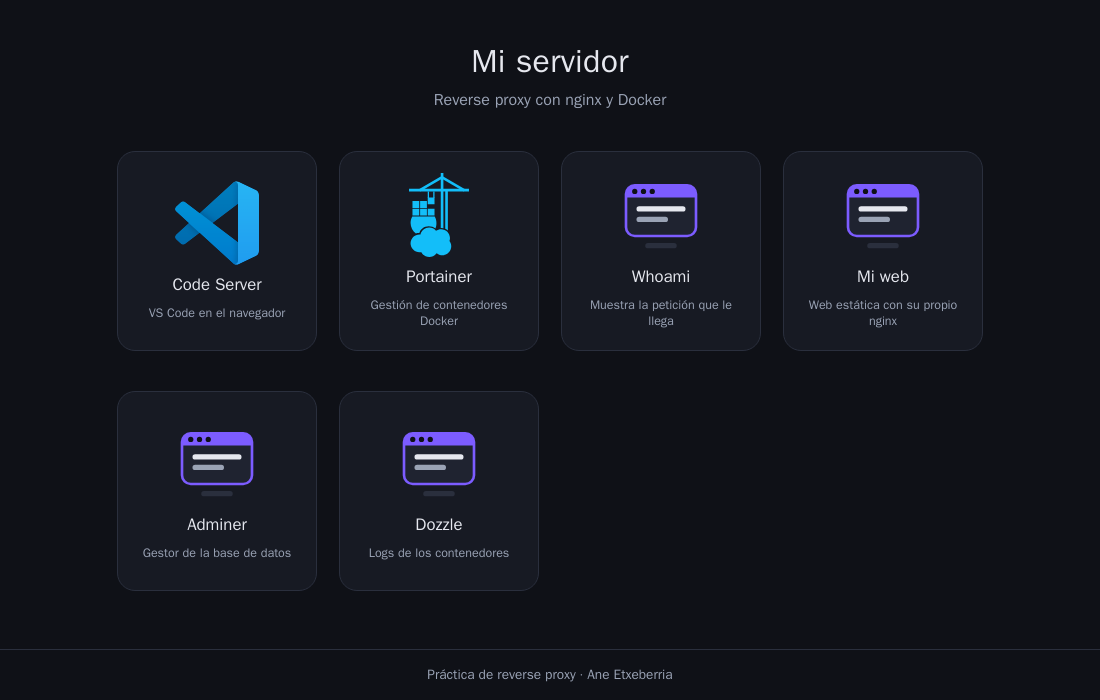
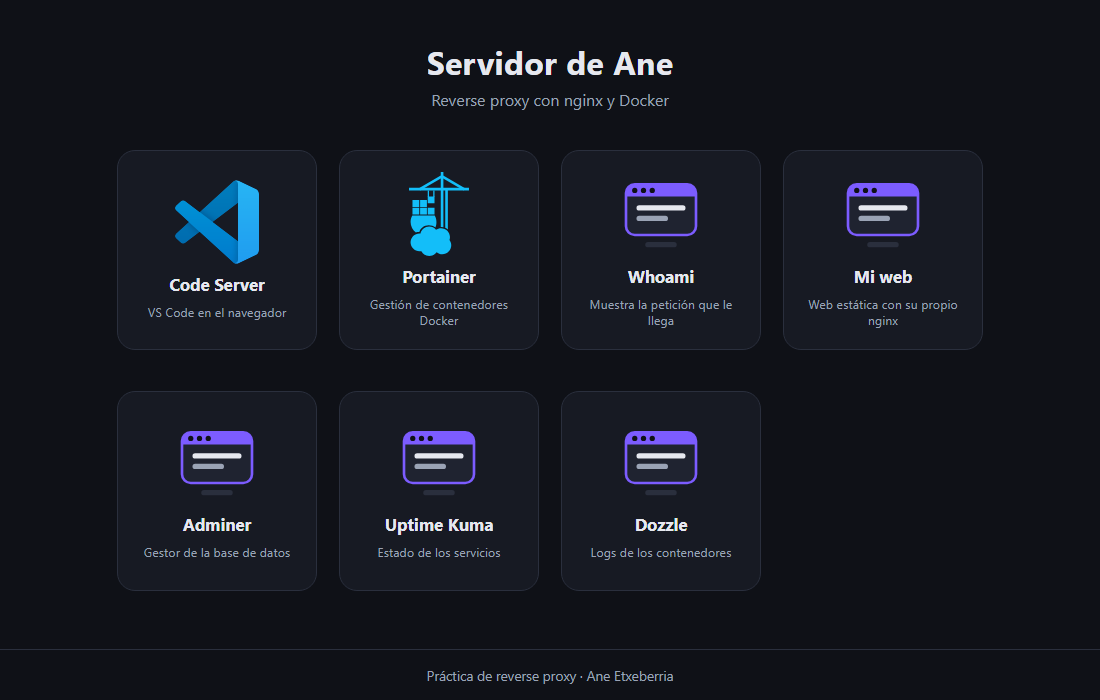
mejorar explicaciones

diff --git a/proxy/web/apps.js b/proxy/web/apps.js
@@ -22,4 +22,5 @@ const APPS = [
     imagen: 'img/portainer.svg',
     descripcion: 'Gestión de contenedores Docker',
   },
+  // ↓ Añade aquí las cajas nuevas, antes del ]; que cierra la lista
 ];

diff --git a/readme.md b/readme.md
@@ -39,6 +39,8 @@ Partes de un entorno que ya funciona (el proxy, un portal de inicio, code-server
 
 Necesitas **Docker Desktop** (o Docker Engine con `docker compose`) y **Git**.
 
+Todos los comandos de esta práctica se ejecutan en una **terminal abierta en la carpeta del proyecto** (la que contiene `docker-compose.yml`). En Windows usa PowerShell o Git Bash, no CMD.
+
 ---
 
 ## 🧠 Conceptos
@@ -58,6 +60,8 @@ Ventajas:
 ### Arquitectura de la práctica
 
 ![Arquitectura: el proxy reparte /, /code/ y /portainer/; tú añades whoami, mi-web y adminer](docs/img/arquitectura.svg)
+
+En la Tarea 5 añadirás además dos **nombres** (`whoami.localhost` y `kuma.localhost`) que entran por el mismo puerto 80 y el mismo proxy; el diagrama muestra solo la parte por ruta.
 
 ```text
 nginx-reverse-proxy/
@@ -127,6 +131,17 @@ location /portainer/ {
 | `rewrite ^/portainer(/.*)$ $1 break;` | **Quita el prefijo:** `/portainer/api/status` pasa a ser `/api/status` |
 | `proxy_pass http://$destino;` | Reenvía la petición al servicio y devuelve su respuesta al navegador |
 
+La línea del `rewrite` es la más rara. Pieza a pieza:
+
+| Trozo | Significa |
+|---|---|
+| `^/portainer` | la ruta **empieza por** `/portainer` |
+| `(/.*)` | y después viene cualquier cosa (la barra y lo que siga): **guárdalo** |
+| `$1` | la ruta nueva es **lo guardado**, sin el prefijo |
+| `break` | ya está: no mires más reglas y sigue con el `proxy_pass` |
+
+Cuando copies este bloque para otro servicio, el prefijo aparece **cinco veces** y el nombre del servicio una (en `$destino`): cámbialos todos.
+
 Así viaja una petición:
 
 ![Recorrido de una petición: location, rewrite y proxy_pass](docs/img/recorrido-peticion.svg)
@@ -143,11 +158,13 @@ Pruébalo tú mismo: abre <http://localhost/portainer/api/status> y verás la re
 
 Al principio del fichero hay tres cosas que no hace falta tocar, pero conviene entender:
 
-- **Las cabeceras `proxy_set_header`** (`Host`, `X-Real-IP`, `X-Forwarded-For`…) le cuentan al servicio quién hizo la petición original. Sin ellas, el servicio solo vería que le llama el proxy. Las verás en directo en la Tarea 2. Están **fuera** de los bloques `server` para que las hereden todos, también los de subdominio de la Tarea 5.
+- **Las cabeceras `proxy_set_header`.** Una *cabecera* es un dato extra que viaja con cada petición HTTP, además de la URL: para qué nombre va (`Host`), desde qué navegador, desde qué IP… Las que añade el proxy (`X-Real-IP`, `X-Forwarded-For`…) le cuentan al servicio quién hizo la petición original. Sin ellas, el servicio solo vería que le llama el proxy. Las verás en directo en la Tarea 2. Están **fuera** de los bloques `server` para que las hereden todos, también los de subdominio de la Tarea 5.
 - **El bloque `map … $connection_upgrade`** deja pasar los **WebSockets**, conexiones que se quedan abiertas. code-server no funciona sin ellos.
 - **`resolver 127.0.0.11`** junto con `set $destino` hacen que nginx busque cada servicio **en cada petición**, en vez de una sola vez al arrancar. Por eso el proxy arranca aunque un servicio esté parado o mal escrito: solo falla esa ruta, con un `502`.
 
 ### Rutas o subdominios: dos formas de repartir
+
+> 📌 Esta sección la necesitas en la **Tarea 5**. Si es tu primera lectura, puedes saltar a las [Tareas](#-tareas) y volver aquí cuando llegues.
 
 Hasta ahora el proxy decide **mirando la ruta** (lo que va después del nombre). Pero también puede decidir **mirando el nombre** que has escrito en el navegador. Piensa en un edificio de oficinas con un solo portal (el puerto 80) y un recepcionista (nginx):
 
@@ -181,13 +198,13 @@ http://localhost/kuma/            → server principal       → ningún locatio
 - **Por ruta:** el portal y los servicios que funcionan bien detrás de un prefijo (code-server, Portainer, Adminer…).
 - **Por subdominio:** los que no admiten subruta o tienen rutas absolutas (Uptime Kuma, muchas webs), y los que queremos que tengan una dirección «limpia» (`www`, `intranet`…).
 
-**¿Cómo llega el nombre al proxy?** Para que `code.localhost` o `intranet.innovatechsolutions.com` lleguen a tu nginx, el nombre tiene que **resolver a la IP del proxy**:
+**¿Cómo llega el nombre al proxy?** Para que `code.localhost` o `intranet.miempresa.com` lleguen a tu nginx, el nombre tiene que **resolver a la IP del proxy**:
 
 | Dónde estás | Qué haces |
 |---|---|
 | En tu PC, con `*.localhost` | Nada: Chrome, Edge y Firefox resuelven cualquier `algo.localhost` a `127.0.0.1` solos |
-| Otro nombre en tu PC (o un navegador que no lo resuelva) | Una línea en el fichero `hosts` por nombre: `127.0.0.1 kuma.localhost` (Linux/macOS: `/etc/hosts`; Windows: `C:\Windows\System32\drivers\etc\hosts`) |
-| En una red con DNS (como el reto de la PYME) | Un registro `A` por subdominio en el DNS, apuntando a la IP del servidor del proxy |
+| Otro nombre en tu PC (o un navegador que no lo resuelva) | Una línea en el fichero `hosts` por nombre: `127.0.0.1 kuma.localhost` (Linux/macOS: `/etc/hosts`; Windows: `C:\Windows\System32\drivers\etc\hosts`). Editarlo requiere permisos de administrador |
+| En una red con DNS (un servidor real con dominio propio) | Un registro `A` por subdominio en el DNS, apuntando a la IP del servidor del proxy |
 
 > Si publicas el proxy en otro puerto (`"8080:80"`), el puerto va detrás del nombre: `http://kuma.localhost:8080/`. nginx compara el nombre sin el puerto, así que el `server_name` no cambia.
 
@@ -197,20 +214,24 @@ http://localhost/kuma/            → server principal       → ningún locatio
 
 ### Tarea 1 · Arranca el entorno y explóralo
 
-**1. Clona tu repositorio y crea el `.env`** con la contraseña de code-server:
+**1. Clona tu repositorio y crea el `.env`:**
 
 ```bash
-git clone <url-de-tu-repositorio>
-cd nginx-reverse-proxy
-cp .env.template .env        # después edita .env y cambia la contraseña
+git clone <url-de-tu-repositorio>   # la URL del botón "Code" de tu repositorio en GitHub
+cd nginx-reverse-proxy              # o el nombre que tenga la carpeta que se ha creado
+cp .env.template .env
 ```
 
-**2. Arranca todo** y comprueba el estado:
+Abre `.env` y cambia `cambiame` por una contraseña tuya: es la de code-server. Docker Compose lee este fichero solo, y `docker-compose.yml` usa el valor con `${CODE_PASSWORD:?mensaje}`: coge la variable del `.env` y, si no existe, se para y muestra el mensaje. El `.env` está en `.gitignore`, así que nunca se sube a GitHub.
+
+**2. Arranca todo** y comprueba el estado. La primera vez descarga las imágenes y tarda unos minutos:
 
 ```bash
 docker compose up -d
 docker compose ps
 ```
+
+Salida resumida (la tuya tendrá más columnas):
 
 ```text
 SERVICE     STATUS         PORTS
@@ -225,11 +246,11 @@ Solo `proxy` tiene un puerto publicado (`0.0.0.0:80->80`). Los demás muestran s
 
 ![Portal de inicio con Code Server y Portainer](docs/img/portal-inicial.png)
 
-**4. Entra en Code Server** (`/code/`) con la contraseña del `.env`. Es VS Code en el navegador, abierto sobre la carpeta del proyecto: puedes editar los ficheros de la práctica desde aquí. Si te pregunta si confías en la carpeta, pulsa **Trust**.
+**4. Entra en Code Server** (`/code/`) con la contraseña del `.env`. Es VS Code en el navegador, abierto sobre la carpeta del proyecto. Puedes editar los ficheros de la práctica desde aquí o desde el VS Code de tu PC: es la misma carpeta, elige lo que prefieras. Si te pregunta si confías en la carpeta, pulsa **Trust**.
 
 ![code-server con nginx.conf abierto, a través de /code/](docs/img/code-server.png)
 
-**5. Entra en Portainer** (`/portainer/`) y crea el usuario administrador:
+**5. Entra en Portainer** (`/portainer/`) y crea el usuario administrador. ⏱ **Hazlo nada más arrancar:** Portainer solo da **5 minutos** para crear el usuario. Si se pasan, al entrar en `/portainer/` verás un `404` en `/timeout.html`; ejecuta `docker compose restart portainer` y vuelve a intentarlo (el token cambia en cada arranque).
 
 - La contraseña debe tener **al menos 12 caracteres**.
 - Te pide un **setup token**, que Portainer escribe en sus logs al arrancar:
@@ -244,8 +265,6 @@ Solo `proxy` tiene un puerto publicado (`0.0.0.0:80->80`). Los demás muestran s
   ```
 
 ![Pantalla de alta de Portainer con el campo Setup token](docs/img/portainer-setup.png)
-
-> ⏱ Tienes **5 minutos** desde que arranca Portainer para crear el usuario. Si se pasa el tiempo, al entrar en `/portainer/` acabarás en un `404` en `/timeout.html`. Ejecuta `docker compose restart portainer` y vuelve a intentarlo (el token cambia en cada arranque).
 
 **6. Personaliza el portal.** Edita `proxy/web/apps.js` y cambia el título y el pie (pon tu nombre):
 
@@ -267,7 +286,7 @@ Guarda y recarga el navegador (F5). No hace falta reiniciar nada: `proxy/web/` e
 
 [whoami](https://github.com/traefik/whoami) es un servidor web diminuto que responde con **la petición que le ha llegado**. Es perfecto para ver qué hace el proxy con cada petición.
 
-**1. Añade el servicio** al final de `services:` en `docker-compose.yml`, sin `ports`:
+**1. Añade el servicio** en `docker-compose.yml`, sin `ports`. Va al final de la sección `services:`, es decir, **después de `portainer:` y antes de la línea `volumes:`** (hay un comentario que marca el sitio), con la misma sangría de dos espacios que los demás:
 
 ```yaml
   whoami:                       # → /whoami/
@@ -275,11 +294,24 @@ Guarda y recarga el navegador (F5). No hace falta reiniciar nada: `proxy/web/` e
     restart: unless-stopped
 ```
 
+El fichero tiene que quedar así por dentro:
+
+```yaml
+services:
+  proxy: …
+  code: …
+  portainer: …
+  whoami: …          # ← el nuevo, dentro de services
+
+volumes:
+  …
+```
+
 ```bash
 docker compose up -d
 ```
 
-**2. Añade su bloque** en `proxy/nginx.conf`, dentro de `server { … }`, después del de Portainer. whoami escucha en el puerto **80**:
+**2. Añade su bloque** en `proxy/nginx.conf`, dentro del `server` principal: después del bloque de Portainer y **antes de la `}` que cierra el `server`** (también hay un comentario que marca el sitio). whoami escucha en el puerto **80**:
 
 ```nginx
     # --- WHOAMI: /whoami/ → servicio "whoami", puerto 80 ---
@@ -299,7 +331,9 @@ docker compose restart proxy
 docker compose logs proxy
 ```
 
-**4. Prueba** <http://localhost/whoami/hola>:
+Verás varias líneas de arranque (`docker-entrypoint.sh`, `Configuration complete`…): son normales. Si no aparece ninguna con `[emerg]`, está bien.
+
+**4. Prueba** <http://localhost/whoami/hola>. Verás algo así (tus IPs serán otras):
 
 ```text
 Hostname: 5d30021cbe95
@@ -309,13 +343,13 @@ RemoteAddr: 172.22.0.4:49914          ← quién le habla: el PROXY
 GET /hola HTTP/1.1                    ← la ruta que le llega: SIN /whoami
 Host: localhost
 User-Agent: Mozilla/5.0 (...)
-X-Forwarded-For: 172.22.0.1           ← quién hizo la petición original: TU navegador
+X-Forwarded-For: 172.22.0.1           ← quién hizo la petición original: tu PC (la IP con la que Docker lo ve)
 X-Forwarded-Prefix: /whoami           ← bajo qué ruta está publicado
 X-Forwarded-Proto: http
 X-Real-Ip: 172.22.0.1
 ```
 
-**5. Añádelo al portal** en `proxy/web/apps.js`, dentro de `APPS`:
+**5. Añádelo al portal** en `proxy/web/apps.js`, dentro de la lista `APPS`: después de la caja de Portainer y **antes del `];` que cierra la lista** (hay un comentario que marca el sitio):
 
 ```js
   {
@@ -337,6 +371,8 @@ docker compose logs proxy --tail 3
 
 Verás `502 Bad Gateway` en el navegador y `whoami could not be resolved` en el log. El portal y el resto de rutas siguen funcionando. Arráncalo de nuevo con `docker compose start whoami`.
 
+✅ **Comprueba:** <http://localhost/whoami/hola> muestra `GET /hola`, la caja de Whoami está en el portal y, con whoami parado, `/whoami/` da `502` mientras el portal sigue funcionando.
+
 ---
 
 ### Tarea 3 · Publica una web estática
@@ -353,7 +389,7 @@ En `servicios/mi-web/` tienes una web sencilla. La va a servir **su propio conte
       - ./servicios/mi-web:/usr/share/nginx/html:ro
 ```
 
-**2. Escribe tú el bloque** en `nginx.conf`, siguiendo el de whoami. Datos: ruta `/mi-web/`, servicio `mi-web`, puerto `80`. Reinicia el proxy.
+**2. Escribe tú el bloque** en `nginx.conf`, en el mismo sitio que el de whoami. Datos: ruta `/mi-web/`, servicio `mi-web`, puerto `80`. Copia el bloque de whoami y cambia `whoami` por `mi-web` en **las seis veces** que aparece (sin contar el comentario); el guion no da problemas en nginx. Reinicia el proxy.
 
 **3. Abre <http://localhost/mi-web/>.** Algo falla: la página sale **sin estilos**.
 
@@ -378,18 +414,22 @@ La ruta empieza por `/`, así que es **absoluta**: el navegador la busca en la r
 
 **6. Añádela al portal** en `apps.js`.
 
+✅ **Comprueba:** <http://localhost/mi-web/> se ve con estilos y con tu nombre, en **F12 → Red** `web.css` da `200`, y la caja está en el portal.
+
 ---
 
 ### Tarea 4 · Adminer y una base de datos
 
 [Adminer](https://www.adminer.org/) es un gestor de bases de datos web. Vas a publicarlo en `/adminer/` con una base de datos MariaDB detrás. **La base de datos no se publica:** solo Adminer habla con ella, dentro de la red de Docker.
 
-**1. Añade la contraseña de la base de datos** al `.env` (y también a `.env.template`, para que quien clone tu repositorio sepa que hace falta):
+**1. Añade la contraseña de la base de datos** al `.env` y también a `.env.template`, para que quien clone tu repositorio sepa que hace falta. En `.env` pon una contraseña tuya; en `.env.template` deja `cambiame`:
 
 ```bash
 # Contraseña del usuario root de MariaDB
 DB_PASSWORD=cambiame
 ```
+
+> MariaDB fija la contraseña **la primera vez que arranca**. Si la cambias en `.env` después, la base de datos sigue con la antigua (ver [Problemas frecuentes](#-problemas-frecuentes)).
 
 **2. Añade los dos servicios:**
 
@@ -410,6 +450,8 @@ DB_PASSWORD=cambiame
       ADMINER_DEFAULT_SERVER: db
 ```
 
+La línea `${DB_PASSWORD:?Falta DB_PASSWORD en .env}` es la misma sintaxis que ya usa `CODE_PASSWORD`: lee la variable del `.env` y, si no existe, `docker compose` se para con ese mensaje. Cópiala tal cual.
+
 Y declara el volumen al final del fichero, en la sección `volumes:`:
 
 ```yaml
@@ -423,9 +465,13 @@ volumes:
 
 **4. Entra en <http://localhost/adminer/>** con servidor `db`, usuario `root`, la contraseña del `.env` y base de datos `clase`. Fíjate en que el servidor es `db`: otra vez, el nombre del servicio.
 
+> MariaDB tarda unos 10-20 segundos en prepararse la primera vez. Si Adminer dice que no puede conectar, no toques nada: espera y vuelve a intentarlo. `docker compose logs db` termina en `ready for connections` cuando está lista.
+
 ![Login de Adminer con el servidor db](docs/img/adminer-login.png)
 
 **5. Añádelo al portal.**
+
+✅ **Comprueba:** entras en Adminer y ves la base de datos `clase` (vacía), la caja está en el portal, y <http://localhost:8080> **no** responde: Adminer, como la base de datos, solo se alcanza desde dentro de la red de Docker.
 
 ---
 
@@ -449,7 +495,7 @@ server {
 }
 ```
 
-Fíjate en lo que **no** está: ni `rewrite`, ni redirección de la barra final. No hay prefijo que quitar.
+Fíjate en lo que **no** está: ni `rewrite`, ni redirección de la barra final. No hay prefijo que quitar. La línea `set $prefijo "";` hace falta porque la cabecera común `X-Forwarded-Prefix` usa esa variable y nginx se queja si no está definida; al estar vacía, la cabecera no se envía.
 
 Reinicia el proxy y abre <http://whoami.localhost/hola>. Compáralo con <http://localhost/whoami/hola>, que sigue funcionando:
 
@@ -457,11 +503,11 @@ Reinicia el proxy y abre <http://whoami.localhost/hola>. Compáralo con <http://
 |---|---|---|
 | `Host:` | `localhost` | `whoami.localhost` |
 | Ruta que recibe | `GET /hola` (gracias al `rewrite`) | `GET /hola` (sin hacer nada) |
-| `X-Forwarded-Prefix:` | `/whoami` | vacío |
+| `X-Forwarded-Prefix:` | `/whoami` | no aparece (está vacía y nginx no la envía) |
 
 El mismo contenedor, publicado de **las dos formas a la vez**.
 
-> ¿No abre `whoami.localhost`? Tu navegador no resuelve `*.localhost`: añade `127.0.0.1 whoami.localhost` a tu fichero `hosts` (ver [cómo llega el nombre al proxy](#rutas-o-subdominios-dos-formas-de-repartir)).
+> ¿No abre `whoami.localhost`? Tu navegador no resuelve `*.localhost`. Prueba primero con Chrome, Edge o Firefox, que lo resuelven solos. Si no, añade `127.0.0.1 whoami.localhost` a tu fichero `hosts` (hace falta permiso de administrador; ver [cómo llega el nombre al proxy](#rutas-o-subdominios-dos-formas-de-repartir)).
 
 **2. Uptime Kuma: un servicio que necesita subdominio.** [Uptime Kuma](https://github.com/louislam/uptime-kuma) vigila si tus servicios están en marcha. No funciona en una subruta, así que es el candidato perfecto para un subdominio.
 
@@ -477,7 +523,7 @@ Declara `kuma_datos:` en la sección `volumes:` y escribe **tú** su bloque `ser
 
 Abre <http://kuma.localhost/>, crea el usuario y añade un monitor HTTP para cada servicio. Usa sus nombres internos: `http://whoami`, `http://mi-web`, `http://portainer:9000`… Kuma está dentro de la red de Docker y los encuentra igual que el proxy.
 
-**3. Añade las cajas al portal.** Para un subdominio, `ruta` es la URL completa:
+**3. Añade la caja de Uptime Kuma al portal.** Para un subdominio, `ruta` es la URL completa (si publicaste el proxy en otro puerto, inclúyelo: `http://kuma.localhost:8080/`). whoami ya tiene su caja; si quieres, añade otra que apunte a `http://whoami.localhost/`:
 
 ```js
   {
@@ -488,11 +534,15 @@ Abre <http://kuma.localhost/>, crea el usuario y añade un monitor HTTP para cad
   },
 ```
 
-🧪 **Experimento 1: un nombre que no existe.** Abre <http://loquesea.localhost/>. Aparece **el portal**. Ningún `server_name` encaja, así que la petición la atiende el `default_server`, que es el servidor principal. Ahora prueba <http://kuma.localhost/code/>. **No** abre code-server: el filtro del `server` va primero, y en el de Kuma no hay ningún `location /code/`.
+🧪 **Experimento 1: un nombre que no existe.** Abre <http://loquesea.localhost/>. Aparece **el portal**. Ningún `server_name` encaja, así que la petición la atiende el `default_server`, que es el servidor principal. Ahora prueba <http://kuma.localhost/code/>. **No** abre code-server, verás la propia página de Kuma (o un «not found» suyo): el filtro del `server` va primero, y en el de Kuma no hay ningún `location /code/`.
 
-🧪 **Experimento 2: rutas absolutas sin miedo.** Publica también `mi-web` por subdominio en `web.localhost`. Después vuelve a poner en su `index.html` la ruta absoluta que rompía la Tarea 3 (`href="/css/web.css"`). En <http://web.localhost/> se ve **con estilos**; en <http://localhost/mi-web/> vuelve a romperse. Deja la versión relativa, que funciona en los dos sitios. Fíjate también en **Volver al portal** (`href="/"`): en `web.localhost`, `/` es la raíz de la propia web, no el portal. Por eso, desde un subdominio, los enlaces a otro servicio llevan la URL completa (`http://localhost/`).
+🧪 **Experimento 2: rutas absolutas sin miedo.** Publica también `mi-web` por subdominio en `web.localhost`. Después vuelve a poner en su `index.html` la ruta absoluta que rompía la Tarea 3 (`href="/css/web.css"`). En <http://web.localhost/> se ve **con estilos**; en <http://localhost/mi-web/> vuelve a romperse. Deja la versión relativa, que funciona en los dos sitios. Fíjate también en **Volver al portal** (`href="/"`): en `web.localhost`, `/` es la raíz de la propia web, no el portal. Por eso, desde un subdominio, los enlaces a otro servicio llevan la URL completa (`http://localhost/`). El bloque `server` de `web.localhost` puedes dejarlo o quitarlo: para la entrega no hace falta.
 
-> **Cuando no estás en tu PC.** En un servidor real (por ejemplo, el del reto de la PYME), cambia `.localhost` por tu dominio: `server_name intranet.innovatechsolutions.com;`. Después crea en el DNS un registro `A` por subdominio que apunte a la IP del servidor donde corre el proxy. nginx no cambia nada más.
+🧪 **Experimento 3 (opcional): Kuma en una subruta.** ¿Por qué decimos que Kuma no funciona detrás de un prefijo? Compruébalo: añade en el `server` principal un bloque `location /kuma/` igual que el de whoami (con su `rewrite`), apuntando a `kuma:3001`, y reinicia el proxy. Abre <http://localhost/kuma/>: la página sale en blanco o acabas en un `404` del portal. En **F12 → Red** verás que pide sus archivos en la raíz (`/assets/…`) y dan `404`: es el mismo problema de rutas absolutas de la Tarea 3, pero esta vez no puedes arreglar el HTML porque no es tuyo. Quita el bloque y reinicia el proxy.
+
+✅ **Comprueba:** <http://whoami.localhost/hola> responde y <http://localhost/whoami/hola> sigue funcionando, <http://kuma.localhost/> abre Uptime Kuma con tus monitores en verde y su caja está en el portal, y <http://loquesea.localhost/> muestra el portal.
+
+> **Cuando no estás en tu PC.** En un servidor real con dominio propio, cambia `.localhost` por tu dominio: `server_name intranet.miempresa.com;`. Después crea en el DNS un registro `A` por subdominio que apunte a la IP del servidor donde corre el proxy. nginx no cambia nada más.
 
 ---
 
@@ -505,12 +555,14 @@ Hasta ahora el proxy **quitaba el prefijo** con `rewrite` y el servicio creía e
 Publica [Dozzle](https://dozzle.dev/), un visor de logs de contenedores, en `/dozzle/`. Pistas:
 
 - Imagen `amir20/dozzle:latest`, puerto **8080**.
-- Necesita leer el socket de Docker: `/var/run/docker.sock:/var/run/docker.sock:ro`.
+- Necesita leer el **socket de Docker**, la «puerta» por la que un contenedor habla con Docker (Portainer ya la usa en el `docker-compose.yml`): `/var/run/docker.sock:/var/run/docker.sock:ro`.
 - Su ruta base se configura con la variable de entorno `DOZZLE_BASE=/dozzle`.
 - Su bloque en `nginx.conf` **no** lleva `rewrite`.
 - La primera vez muestra un asistente de configuración: pulsa **Continuar sin inicio de sesión**.
 
 Si prefieres otro servicio, busca en su documentación *base path*, *subpath* o *reverse proxy*. Ten en cuenta que algunas aplicaciones no funcionan en una subruta (por ejemplo, Uptime Kuma): para esas, usa un subdominio como en la [Tarea 5](#tarea-5--publica-por-subdominio-y-combina-las-dos-formas).
+
+✅ **Comprueba:** <http://localhost/dozzle/> muestra los logs de tus contenedores y tiene su caja en el portal.
 
 ---
 
@@ -521,8 +573,17 @@ Si prefieres otro servicio, busca en su documentación *base path*, *subpath* o 
 | Algo en `proxy/web/` o en `servicios/mi-web/` | Recarga el navegador (F5) |
 | `proxy/nginx.conf` | `docker compose restart proxy` |
 | `docker-compose.yml` o `.env` | `docker compose up -d` |
+| Has añadido un servicio nuevo (compose **y** nginx.conf) | Las dos cosas: `docker compose up -d` y `docker compose restart proxy` |
 
 > También puedes reiniciar el proxy desde Portainer: **Containers → proxy → Restart**.
+
+Y para parar y arrancar:
+
+| Quieres… | Haz… |
+|---|---|
+| Parar todo (fin de la clase) | `docker compose down`. Borra los contenedores, pero **no** los datos de los volúmenes: el usuario de Portainer, la base de datos y los monitores de Kuma se conservan |
+| Seguir otro día | `docker compose up -d` desde la carpeta del proyecto. Todo vuelve como lo dejaste |
+| Empezar de cero | `docker compose down -v`. Borra también los volúmenes: tendrás que volver a crear el usuario de Portainer, la base de datos y los monitores |
 
 ---
 
@@ -539,9 +600,13 @@ Lo primero, siempre: `docker compose ps` y `docker compose logs proxy`.
 | No carga **nada** (ni el portal) y el proxy aparece como `Restarting` | Error de sintaxis en `nginx.conf` | `docker compose logs proxy` muestra la línea: `[emerg] unexpected "}" in /etc/nginx/conf.d/default.conf:57` |
 | `/portainer/` da `404` en `/timeout.html` | Pasaron 5 minutos sin crear el usuario admin | `docker compose restart portainer` y créalo enseguida |
 | `Falta CODE_PASSWORD` al usar `docker compose` | No existe el fichero `.env` | `cp .env.template .env` |
+| `yaml: line 23: did not find expected key` o `mapping values are not allowed` al hacer `docker compose up` | Has pegado un servicio en el sitio equivocado o con otra sangría | Los servicios van dentro de `services:`, antes de `volumes:`, con **dos espacios** de sangría. Compáralo con el bloque de `whoami` |
+| `service "db" refers to undefined volume db_datos` | Falta declarar el volumen | Añádelo en la sección `volumes:` del final del fichero |
+| Adminer **no puede conectar** justo después de arrancar | MariaDB todavía está inicializando | Espera unos segundos y reintenta. `docker compose logs db` termina en `ready for connections` cuando está lista |
+| Adminer: `Access denied for user 'root'` | La contraseña de MariaDB se fija **la primera vez** que arranca; cambiarla en `.env` después no sirve | Pon en `.env` la contraseña que usaste la primera vez. Si no la recuerdas: `docker compose down -v` y `docker compose up -d` (se borran todos los datos, también el usuario de Portainer) |
 | `bind: address already in use` al arrancar | Otro programa usa el puerto 80 | Cambia `"80:80"` por `"8080:80"` y entra en `http://localhost:8080/` |
 | He cambiado `nginx.conf` y no pasa nada | El proxy no se ha reiniciado | `docker compose restart proxy` |
-| `algo.localhost` **no abre** (el navegador dice que no encuentra el sitio) | El nombre no resuelve a `127.0.0.1` | Añade `127.0.0.1 algo.localhost` al fichero `hosts` o prueba con Chrome/Firefox |
+| `algo.localhost` **no abre** (el navegador dice que no encuentra el sitio) | El nombre no resuelve a `127.0.0.1` | Prueba con Chrome, Edge o Firefox, que lo resuelven solos. Si no, añade `127.0.0.1 algo.localhost` al fichero `hosts` (necesita permisos de administrador) |
 | `algo.localhost` muestra **el portal** en vez del servicio | Ningún `server_name` coincide (errata, o falta el bloque) y responde el `default_server` | Revisa el `server_name` y reinicia el proxy |
 | Un servicio por subdominio falla con WebSockets o pierde la IP del cliente | Has puesto un `proxy_set_header` dentro de su `server` y ya no hereda las comunes | Quítalo, o copia dentro también las demás cabeceras |
 
@@ -549,7 +614,7 @@ Lo primero, siempre: `docker compose ps` y `docker compose logs proxy`.
 
 ## 📤 Entrega
 
-Así debería quedar tu portal (aquí con el reto incluido):
+Así debería quedar tu portal (la caja de Dozzle solo si haces el ⭐ Reto):
 
 ![Portal final con todos los servicios](docs/img/portal-final.png)
 
@@ -561,7 +626,7 @@ Así debería quedar tu portal (aquí con el reto incluido):
 - [ ] Adminer conecta con la base de datos `db`.
 - [ ] `whoami` funciona en `localhost/whoami/` **y** en `whoami.localhost`, y Uptime Kuma en `kuma.localhost` con su caja en el portal.
 - [ ] `.env.template` incluye `DB_PASSWORD` y el `.env` **no** está en el repositorio.
-- [ ] Has creado `RESPUESTAS.md` con las respuestas a estas preguntas (2-3 líneas cada una):
+- [ ] Has creado `RESPUESTAS.md` en la raíz del repositorio (junto a este README) con las respuestas a estas preguntas (2-3 líneas cada una):
   1. ¿Por qué solo el servicio `proxy` tiene `ports`? ¿Qué se gana con ello?
   2. ¿Qué ruta recibe whoami con `rewrite` y sin él? ¿Para qué sirve el `rewrite`?
   3. ¿Por qué tu web salía sin estilos y cómo lo arreglaste?
